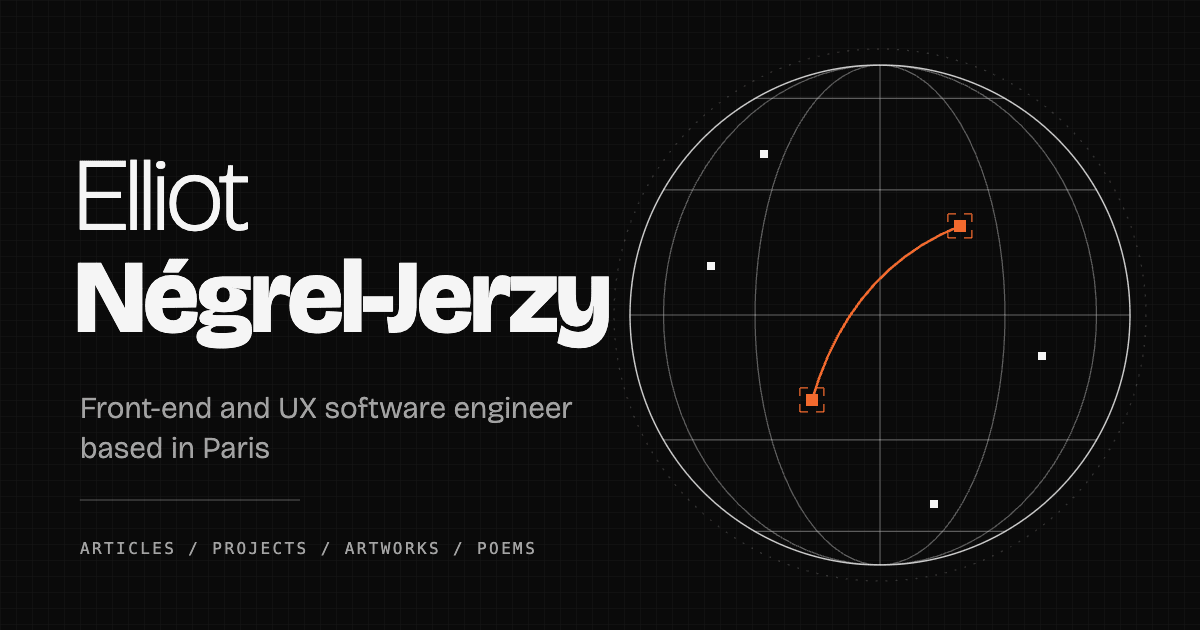
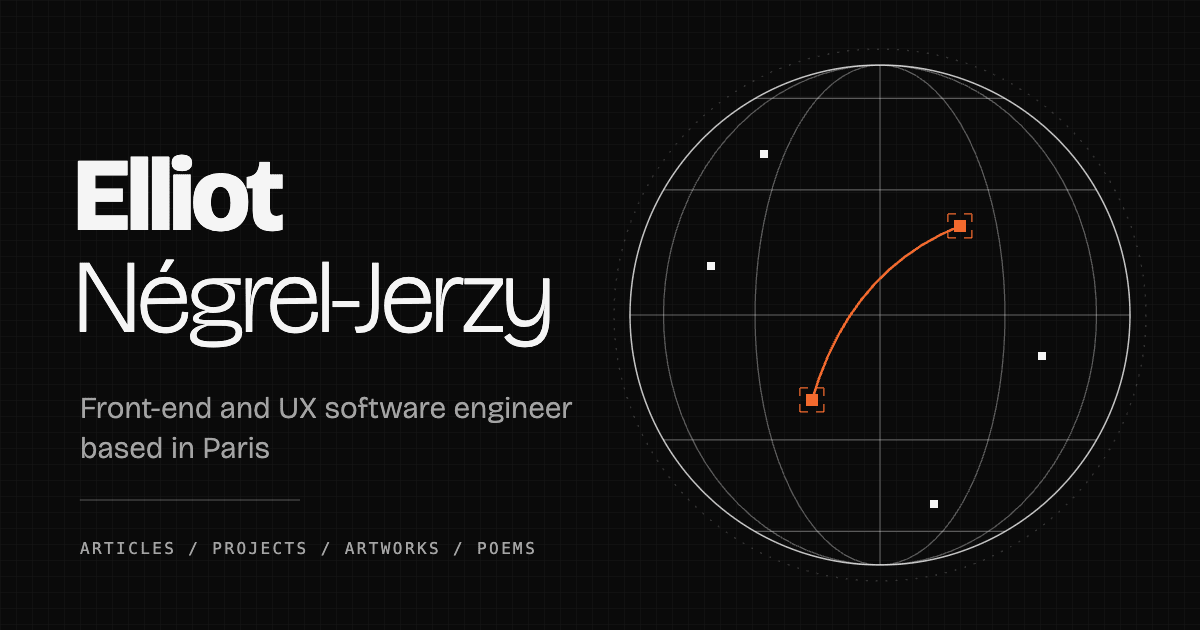
feat(web): the first name is the heavy one and the name takes about 72 % of the width
Weights swapped in the hero, the collapsed line and the share image; the
given name's tracking is opened so the letters do not touch. Docs and
the hero check follow.

Changed region(s): [[0.0617, 0.3921, 0.5242, 0.573], [0.0617, 0.2413, 0.2467, 0.3921]]

diff --git a/apps/web/app/app.css b/apps/web/app/app.css
@@ -938,8 +938,8 @@
     height: var(--icon-large);
   }
 
-  /* The shortcut hint (components/ui/key-hint.tsx): a modifier icon or word, then the key, in mono; the box holds its place before
-     hydration (the platform is only known in the browser). */
+  /* The shortcut hint (components/ui/key-hint.tsx): a modifier icon or word, then the key, in plain mono text (no border, no
+     background); its space is held before hydration (the platform is only known in the browser). */
   .ds-kbd {
     display: inline-flex;
     flex: none;
@@ -953,12 +953,6 @@
     letter-spacing: 0.04em;
     font-variant-numeric: tabular-nums;
     color: inherit;
-  }
-
-  .ds-kbd[data-boxed] {
-    min-height: 1.75rem;
-    padding: 0 0.5rem;
-    border: var(--hairline) solid var(--border-strong);
   }
 
   /* Kind tag: the kind's icon, drawn plain beside its word. */
@@ -2180,19 +2174,20 @@ h1[tabindex="-1"]:focus-visible {
    *   away       a place or an entry is open: nothing of it is shown or exposed.
    * Only opacity and transform change (compositor only); `visibility` follows the fade so hidden links are not tab stops.
    *
-   * Sizes. `--hero-size` is the name's font size. The name is the owner's: "Elliot" at 200 and "Négrel-Jerzy" at 800, -0.055em. On
-   * a wide screen it is one line that fills the width between the gutters (`--hero-fit` em wide at the 200/800 split: the size is the
-   * width over that), never more than a third of the viewport's height (a short window) nor 30 rem. Stacked (under 48 rem) the two
-   * halves are two lines and the longer one, the family name, fills the width. The block rises by the credits line's height (the
+   * Sizes. `--hero-size` is the name's font size. The name is the owner's: "Elliot" at 800 and "Négrel-Jerzy" at 200, -0.055em. On
+   * a wide screen it is one line that takes `--hero-span` of the viewport's width (72 %: deliberately NOT the full width between the
+   * gutters; the size is that share of the width over `--hero-fit`, the name's width in em), never more than a third of the viewport's
+   * height (a short window) nor 30 rem. Stacked (under 48 rem) the two halves are two lines and the longer one, the family name,
+   * fills the width between the gutters. The block rises by the credits line's height (the
    * line is bottom right and sits at 8 to 30 px from the bottom) plus what the "y" hangs below the line box, so no letter is ever over it.
    */
   .landing-hero {
     --hero-gutter: clamp(1rem, 3.9vw, 3.5rem);
-    /* The name's width in em at the 200 / 800 split, with a little slack (6.49 measured from 98 px up: the font's optical size stops
-       narrowing the letters there; scripts/home/hero.mjs checks that it fits); the viewport's width less two gutters over it is the size
-       that fills the row. */
+    /* The name's width in em at the 800 / 200 split (6.6 measured, the given name set at -0.02em; the font's optical size is the same
+       from 98 px up; scripts/home/hero.mjs checks the share it takes) and the share of the viewport's width it takes on a wide screen. */
     --hero-fit: 6.6;
-    --hero-size: min(calc((100vw - 2 * var(--hero-gutter)) / var(--hero-fit)), 33vh, 30rem);
+    --hero-span: 0.72;
+    --hero-size: min(calc(100vw * var(--hero-span) / var(--hero-fit)), 33vh, 30rem);
     /* The credits line's top edge (0.5 rem + its card) and a little air; a phone's dev badge sits higher (below). */
     --hero-clear: 2.25rem;
     --hero-fade: var(--duration-base) var(--ease-standard);
@@ -2208,7 +2203,8 @@ h1[tabindex="-1"]:focus-visible {
   /* Phones: the name stacks, the family name fills the width; the credits line takes the whole bottom edge and the dev-only content badge sits above it. */
   @media (max-width: 47.99rem) {
     .landing-hero {
-      --hero-fit: 5.3;
+      /* The family name (the longer line, 4.57 em at 390 px, 4.7 on the smallest) fills the width between the gutters. */
+      --hero-fit: 4.7;
       --hero-size: min(calc((100vw - 2 * var(--hero-gutter)) / var(--hero-fit)), 24vh);
     }
 
@@ -2301,6 +2297,12 @@ h1[tabindex="-1"]:focus-visible {
     white-space: nowrap;
     text-wrap: nowrap;
     transform-origin: left bottom;
+  }
+
+  /* The given name is the heavy half: at 800 and the name's -0.055em the three l, l, i of "Elliot" touch, so it is set looser (the thin
+     family name keeps the tight tracking: its strokes are light enough). */
+  .hero-given {
+    letter-spacing: -0.02em;
   }
 
   /* A family name with a hyphen never breaks there: it is one word. The hyphen gets air: at 800 and -0.055em it fuses with its neighbours. */
@@ -2446,7 +2448,7 @@ h1[tabindex="-1"]:focus-visible {
      globe is in plain view, and every line saved is room for it). */
   @media (min-width: 48rem) and (max-height: 34rem) {
     .landing-hero {
-      --hero-size: min(calc((100vw - 2 * var(--hero-gutter)) / var(--hero-fit)), 26vh, 30rem);
+      --hero-size: min(calc(100vw * var(--hero-span) / var(--hero-fit)), 26vh, 30rem);
     }
 
     .hero-block {

diff --git a/apps/web/app/components/landing-hero.tsx b/apps/web/app/components/landing-hero.tsx
@@ -17,7 +17,7 @@ const SERVER_SNAPSHOT: HeroSnapshot = { state: "rest", world: true };
 const HINT_GLOBE = "Pick a point on the globe, or start from a list.";
 const HINT_NO_PLACE = "No place is published yet: start from a list.";
 
-/** The family name with its hyphen set apart: at the display weight and the hero's tight tracking the hyphen would fuse with the letters around it. */
+/** The family name with its hyphen set apart: at the hero's tight tracking the hyphen would fuse with the letters around it. */
 function FamilyName() {
   const parts = SITE.familyName.split("-");
   return (
@@ -41,8 +41,8 @@ interface LandingHeroProps {
 }
 
 /**
- * The landing hero, over the globe on the home page (docs/landing.md). All type: the owner's name (the given name at the thin end of the
- * weight axis, the family name at the heavy end), who they are and what they do in the light reading serif, a search line that opens
+ * The landing hero, over the globe on the home page (docs/landing.md). All type: the owner's name (the given name at the heavy end of the
+ * weight axis, the family name at the thin end), who they are and what they do in the light reading serif, a search line that opens
  * the existing palette, and the four lists as hairline rows (which are the home page's section links: the header leaves its own out
  * while the hero is at rest, `lib/hero-rest.ts`). Its container ignores the pointer, so the globe stays draggable beneath it; only the search line and the rows take
  * it. At rest it is the page; after a gesture on the globe it steps back to one small line (and comes back after a moment at the world
@@ -74,7 +74,7 @@ export function LandingHero({ machine, away, empty }: LandingHeroProps) {
     >
       <div className="hero-block">
         <Name className="hero-name type-display-xl">
-          <span className="hero-given type-thin">{SITE.givenName}</span> <span className="hero-family">
+          <span className="hero-given">{SITE.givenName}</span> <span className="hero-family type-thin">
             <FamilyName />
           </span>
         </Name>
@@ -111,7 +111,10 @@ export function LandingHero({ machine, away, empty }: LandingHeroProps) {
       {/* What stays when the hero has stepped back: the name as one small line and, while the way back is real, the hint. Decoration (the h1 is above). */}
       <p aria-hidden="true" className="hero-mini">
         <span className="hero-mini-name">
-          <span className="type-thin">{SITE.givenName}</span> <FamilyName />
+          {SITE.givenName}{" "}
+          <span className="type-thin">
+            <FamilyName />
+          </span>
         </span>
         <span className="hero-mini-hint">Drag to explore. Back to start after a moment.</span>
       </p>

diff --git a/apps/web/app/components/landing-hero.test.ts b/apps/web/app/components/landing-hero.test.ts
@@ -26,11 +26,11 @@ describe("LandingHero", () => {
     machine.stop();
   });
 
-  it("is the page's h1: the owner's name, the given name at the thin end of the weight axis and the family name at the heavy end", async () => {
+  it("is the page's h1: the owner's name, the given name at the heavy end of the weight axis (800) and the family name at the thin end (200)", async () => {
     const html = await render();
     expect(html.match(/<h1[ >]/g)).toHaveLength(1);
     expect(html).toMatch(
-      /<h1 class="hero-name type-display-xl"><span class="hero-given type-thin">Elliot<\/span> <span class="hero-family"><span>Négrel<\/span><span><span class="hero-hyphen">-<\/span>Jerzy<\/span><\/span><\/h1>/,
+      /<h1 class="hero-name type-display-xl"><span class="hero-given">Elliot<\/span> <span class="hero-family type-thin"><span>Négrel<\/span><span><span class="hero-hyphen">-<\/span>Jerzy<\/span><\/span><\/h1>/,
     );
     const heading = /<h1[^>]*>(.*?)<\/h1>/.exec(html)?.[1]?.replace(/<[^>]+>/g, "");
     expect(heading).toBe(SITE_NAME);
@@ -101,6 +101,8 @@ describe("LandingHero", () => {
     const html = await render();
     const mini = html.slice(html.indexOf('<p aria-hidden="true" class="hero-mini">'));
     expect(mini).toContain("Drag to explore. Back to start after a moment.");
+    // the same weights as the name: the given name heavy (the line's own 800), the family name at the thin end
+    expect(mini).toMatch(/<span class="hero-mini-name">Elliot <span class="type-thin"><span>Négrel<\/span>/);
     expect(html.match(/<h[1-6][ >]/g)).toHaveLength(1);
   });
 });
@@ -145,6 +147,15 @@ describe("the hero's CSS (app.css, 'Landing hero')", () => {
     expect(rule(".hero-intro")).toContain("font-family: var(--font-reading)");
     expect(rule(".hero-row")).toContain("font-family: var(--font-display)");
     expect(rule(".hero-search")).toContain("font-family: var(--font-meta)");
+  });
+
+  it("sets the name's heavy half on the given name and does not span the width: a share of it (--hero-span), the phone's family name fills it", () => {
+    expect(rule(".hero-name")).not.toContain("type-thin");
+    expect(css).toMatch(/--hero-span: 0\.7[0-5];/);
+    expect(css).toMatch(/--hero-size: min\(calc\(100vw \* var\(--hero-span\) \/ var\(--hero-fit\)\), 33vh, 30rem\);/);
+    // the phone's rule is the gutter-to-gutter fill
+    expect(css).toMatch(/max-width: 47\.99rem\) \{\s*\.landing-hero \{[^}]*--hero-size: min\(calc\(\(100vw - 2 \* var\(--hero-gutter\)\) \/ var\(--hero-fit\)\), 24vh\);/);
+    expect(rule(".hero-mini-name")).toContain("font-weight: var(--weight-heavy)");
   });
 
   it("keeps the header's accent state at the text-safe token (these are under 24 px)", () => {

diff --git a/apps/web/app/lib/site.ts b/apps/web/app/lib/site.ts
@@ -10,7 +10,7 @@
 export const SITE = {
   /** The owner's name: the site's name, the home hero's headline, the title template's suffix. */
   name: "Elliot Négrel-Jerzy",
-  /** The name's two halves: the hero sets the first at the thin end of the weight axis and the second at the heavy end. */
+  /** The name's two halves: the hero sets the first at the heavy end of the weight axis (800) and the second at the thin end (200). */
   givenName: "Elliot",
   familyName: "Négrel-Jerzy",
   /** For tight spots (the home-screen label under an icon, 12 characters or fewer). */

diff --git a/apps/web/app/routes/dev-design.tsx b/apps/web/app/routes/dev-design.tsx
@@ -273,9 +273,8 @@ function Icons() {
           ))}
         </ul>
       </Spec>
-      <Spec caption="The shortcut hint (the command key on a Mac, Ctrl elsewhere), boxed and plain">
+      <Spec caption="The shortcut hint (the command key on a Mac, Ctrl elsewhere): plain muted text, never a box">
         <div className="flex flex-wrap items-center gap-6 text-muted-foreground">
-          <KeyHint boxed />
           <KeyHint />
         </div>
       </Spec>

diff --git a/docs/landing.md b/docs/landing.md
@@ -8,7 +8,7 @@ Code: `app/components/landing-hero.tsx` (the markup), `app/lib/hero-machine.ts` 
 
 ```
 <div data-slot="landing-hero" data-hero="rest | collapsed | away" data-world="true | false">
-  h1.hero-name        "Elliot" (.hero-given .type-thin, 200) + "Négrel-Jerzy" (.hero-family, 800), Bricolage, .type-display-xl; the page's h1
+  h1.hero-name        "Elliot" (.hero-given, 800) + "Négrel-Jerzy" (.hero-family .type-thin, 200), Bricolage, .type-display-xl; the page's h1
   .hero-lead
     p.hero-intro      who and what: "Front-end and UX software engineer based in Paris. Data visualisation, geospatial and cartography interfaces, design systems, computer graphics."
     p.hero-hint       how: "Pick a point on the globe, or start from a list." (muted, a step smaller; gone on a wide, short window)
@@ -18,7 +18,7 @@ Code: `app/components/landing-hero.tsx` (the markup), `app/lib/hero-machine.ts` 
   p.hero-mini         aria-hidden: the small name and "Drag to explore. Back to start after a moment."
 ```
 
-Layout (wide): intro, hint and search left (470 px), the four rows right (360 px), the name across the whole width under them: ONE line from 48 rem, sized to fill the width between the gutters (`--hero-size` = width less two gutters over `--hero-fit` 6.6 em, the name's measured width at 200 / 800 and -0.055em, which is 6.49 em from about 98 px up, so the name ends a little inside the right gutter: 201 px at 1440), never over a third of the height nor 30 rem. The hyphen of the family name has its own span (`.hero-hyphen`, 0.045 em of margin): at 800 and that tracking it fused with the "l" and the "J". Gutters 56 px (`clamp(1rem, 3.9vw, 3.5rem)`). Under 48 rem it stacks in two lines: the given name over the family name (`--hero-fit` 5.3, the family name fills the width: 67 px at 390), then intro, hint, search, rows. Wide and short (a phone on its side, under 34 rem tall): the rows in two columns, the name capped at 26 vh and the hint dropped (the globe is in plain view; the line saved is room for it). DOM order is reading order (name, intro, search, rows); the grid places the name last on a wide screen.
+Layout (wide): intro, hint and search left (470 px), the four rows right (360 px), the name under them: ONE line from 48 rem, **deliberately not the full width** (owner, round 2: "clearly narrower"): it takes `--hero-span` 0.72 of the viewport (`--hero-size` = 100vw x 0.72 / `--hero-fit` 6.6 em, the name's measured width at 800 / 200: 157 px at 1440, which is 1037 px, 72 %; 737 px at 1024; 565 px, 74 %, at 768 where the optical size is a little wider), never over a third of the height nor 30 rem. Weights: the given name is the heavy half (800, set at -0.02 em: at the name's -0.055 em the three l, l, i of "Elliot" touched), the family name the thin half (200, -0.055 em). The hyphen of the family name has its own span (`.hero-hyphen`, 0.045 em of margin). Gutters 56 px (`clamp(1rem, 3.9vw, 3.5rem)`). Under 48 rem it stacks in two lines: the given name over the family name, whose width is what fills the row there (`--hero-fit` 4.7, gutter to gutter: 76 px at 390), then intro, hint, search, rows. Wide and short (a phone on its side, under 34 rem tall): the rows in two columns, the name capped at 26 vh and the hint dropped (the globe is in plain view; the line saved is room for it). DOM order is reading order (name, intro, search, rows); the grid places the name last on a wide screen.
 
 The block is bottom-anchored and rises by the credits line's height plus what the "y" hangs under the line box (`padding-bottom: clear + 0.15 * name size`), so no letter is ever over the credits line (bottom right, 8 to 30 px from the bottom) or, in development, the content badge. The hero is `pointer-events: none`; only the search line and the rows take the pointer, so the globe stays draggable and zoomable beneath all the rest. A page-colour fade (`.landing-hero::before`, no blur) sits behind the thin type.
 
@@ -27,7 +27,7 @@ The block is bottom-anchored and rises by the credits line's height plus what th
 | State | When | What shows |
 | --- | --- | --- |
 | `rest` | load; or idle at the world view after a gesture | the whole hero |
-| `collapsed` | after a gesture on the globe; or whenever the view is not the world view (zoomed in, a place open) | the small line bottom-left (left 40 px, bottom 32 px: the name in Bricolage 30 / 800 with "Elliot" at 200, and the hint). The h1 stays in the accessibility tree at opacity 0; the search line and the rows are `visibility: hidden` (not tab stops). The hint is shown only while the way back is real (`data-world="true"`) |
+| `collapsed` | after a gesture on the globe; or whenever the view is not the world view (zoomed in, a place open) | the small line bottom-left (left 40 px, bottom 32 px: the name in Bricolage 30: "Elliot" at 800 and "Négrel-Jerzy" at 200, as in the hero, and the hint). The h1 stays in the accessibility tree at opacity 0; the search line and the rows are `visibility: hidden` (not tab stops). The hint is shown only while the way back is real (`data-world="true"`) |
 | `away` | a place or an entry is open | nothing is shown or exposed (instant); the name renders as a `p`, so the panel's title is the only h1 |
 
 Transitions: opacity and transform only (visibility follows the fade), `--duration-base` (220 ms) with `--ease-standard`; `prefers-reduced-motion`: none (instant). No JS animation loop; a state change costs one React re-render of the hero, and only on a gesture start, the world view being left or reached, or the idle timer.
@@ -44,7 +44,7 @@ The machine (`createHeroMachine`): `rest` goes to `collapsed` on `interact()` or
 
 Restyled with the hero (the board's header): `Globe` (the home page; accessible name "Globe, Elliot Négrel-Jerzy home"), Projects, Articles, Artworks, Poems in mono capitals (`.nav-link`: 12 px, tracking 0.14em and 44 px between items from a 44 rem wide row, shrinking by container width down to 11 px / 6 px on a 320 px phone), the current one in the foreground and underlined, the rest muted, the pointer or keyboard turning an item to `--signal-text`. Where the icon trigger is hidden (row under 28 rem: a phone) the same control is one word, "Search" (`data-slot="search-trigger-compact"`, 44 px target).
 
-**On the home page the header carries no section links while the hero is at rest** (owner, 2026-10-13: the hero's four rows are the sections; two sets one above the other was redundancy). It is the search trigger alone (icon and key hint, or the word on a phone), centred as before. What keeps the page accessible: the skip links are unchanged; the header's search trigger stays first in the tab order, then the hero's search line and its four rows; the hero's list is a `nav` with `aria-label="Primary"` (the only primary navigation in the accessibility tree), and the header's row, which stays the same element so that the open palette keeps its state, becomes `role="none"` and loses its label. **The sections come back whenever the hero is not at rest**: collapsed after a gesture, or zoomed in (its rows are `visibility: hidden` then, and zoomed in it never returns on its own, so without this the visitor would have no way to the lists but the search); they go again when the hero returns. Mechanism: `LandingHero` publishes `state === "rest"` to `lib/hero-rest.ts` (a tiny external store) and `Navbar` reads it, because the header is a sibling of the shell in the root layout. The server and the first client render say "at rest", like the hero's server markup, so nothing differs at hydration. Every other route, including a place or an entry opened from the globe, has the header unchanged.
+**On the home page there is no header at all while the hero is at rest** (owner, 2026-10-13, twice: first "no section tabs, the hero's rows are the sections", then "no top bar element at all: the hero's own search line has the search and the key hint"). `Navbar` renders no `<header>`: no bar, no tabs, no search trigger, no fade. What keeps the page accessible: the skip links are unchanged; the first controls in the tab order are the hero's search line and its four rows; the hero's list is a `nav` with `aria-label="Primary"` (the only Primary navigation in the accessibility tree); Cmd/Ctrl-K opens the palette as everywhere (the palette is mounted by `Navbar` beside the header, not inside it, so it also stays open when the header comes or goes). **The header returns whenever the hero is not at rest** (tabs and search, with the plain key hint): collapsed after a gesture, or zoomed in (the rows are `visibility: hidden` then, and zoomed in the hero never returns on its own, so without this the visitor would have no way to the lists but the search); it goes again when the hero returns. Mechanism: `LandingHero` publishes `state === "rest"` to `lib/hero-rest.ts` (a tiny external store) and `Navbar` reads it, because the header is a sibling of the shell in the root layout. The server and the first client render say "at rest", like the hero's server markup, so nothing differs at hydration. Every other route, including a place or an entry opened from the globe, has the header unchanged.
 
 ## Empty archive
 

diff --git a/docs/design-system.md b/docs/design-system.md
@@ -45,11 +45,11 @@ Each kind has an **icon** from the icon set (article: a page of text; project: a
 
 ### Type
 
-The direction (2026-10-12): the pixel globe is the only illustrative element; everything else is type. A very heavy display weight against a very thin one (the owner's name: "Elliot" 200, "Négrel-Jerzy" 800), a reading serif for long text, mono for metadata, hairline rules, one accent. Three self-hosted families (`design-tokens.md`, "Typography": files, fallbacks, weights, the scale with its numbers) over the unchanged system stacks. Each role is a class in `app.css` (`.type-*`); a component composes them and names no family itself.
+The direction (2026-10-12): the pixel globe is the only illustrative element; everything else is type. A very heavy display weight against a very thin one (the owner's name: "Elliot" 800, "Négrel-Jerzy" 200), a reading serif for long text, mono for metadata, hairline rules, one accent. Three self-hosted families (`design-tokens.md`, "Typography": files, fallbacks, weights, the scale with its numbers) over the unchanged system stacks. Each role is a class in `app.css` (`.type-*`); a component composes them and names no family itself.
 
 | Role | Face | Where |
 | --- | --- | --- |
-| `display-xl` (`.type-display-xl`) | Bricolage Grotesque 800, the given name at 200 (`.type-thin`), tight (0.88 leading, -0.045em), 56 to 158 px | the name on the home page (the hero sets its own size: one line across the width, stacked on a phone) |
+| `display-xl` (`.type-display-xl`) | Bricolage Grotesque 800, the family name at 200 (`.type-thin`; the given name is the heavy half), tight (0.88 leading, -0.045em), 56 to 158 px | the name on the home page (the hero sets its own size: one line taking about 72 % of the width, stacked on a phone) |
 | `display-lg` | Bricolage 800, 36 to 72 px, 0.98 leading | a list's year numerals (`.type-thin`), specimens; an entry's headline is `.entry-title` (Newsreader 700, see "Entry pages") |
 | `display-md` | Bricolage 700, 26 to 36 px | a card's title, a section of a list |
 | `standfirst` | Newsreader italic 300, 24 to 30 px, balanced | the line under a headline |
@@ -120,7 +120,7 @@ All in `app/components/ui/`, importable from `~/components/ui` (barrel) or by fi
 | `EntryCard` | cover (authored image or generated, 16:9, one hairline) + optional kind (`showKind`, mixed lists only) + title + three-line summary + status + date and places as two plain lines + the first three tags as muted text | one link (the title), stretched over the card with `::after`; hover underlines the title, focus-within draws a ring; `orientation="horizontal"` puts the cover beside the text inside an `@container` of 28 rem or more (the place panel), `priority` loads the image at once (the first cards of a list) |
 | `CopyButton` | ghost button that copies a string (or a function of the window) and confirms in place: its word turns to `Copied` (or `Not copied`) for 2 s, a polite status says it; no toast | drawn only once hydrated; clipboard API with an `execCommand` fallback; `glyph`, `label` (the accessible name), `announcement` |
 | `Icon` | one icon of the set by name (5 kinds, close, expand, collapse, arrows, enter, command, copy, link, check, search, hash), from lucide-react | `size` inline (1.1 em), control (1.25 rem, default), large (1.5 rem); decorative (`aria-hidden`); "Icons" below |
-| `KeyHint` | the shortcut's hint in a `kbd`: the command icon (Mac) or "Ctrl", then K, mono 13 px; empty box of its final width until hydrated | `boxed` (hairline key cap: the header trigger) or plain (the hero's search line) |
+| `KeyHint` | the shortcut's hint in a `kbd`: the command icon (Mac) or "Ctrl", then K, mono 13 px, muted, **plain text: no border, background or outline anywhere**; empty space of its final width until hydrated | none: the same in the header and on the hero's search line |
 
 ### Generative cover art
 
@@ -199,9 +199,8 @@ the cards h3). A place without entries shows nothing for them (no section, no em
 - **Empty states.** Home with no place: the globe stays and `ArchiveEmpty` (a small plate under one ink rule, "Nothing on the globe yet" in the display face, one
   line in the reading face and the four lists with their counts in mono) sits bottom left; a list with no entries is one muted line ("Nothing here yet."); a place
   with none shows no entries section.
-- **Search.** A modal dialog on the surface Frame: a combobox input with the search icon, an `Esc` key cap, group headings in mono, rows of kind
-  icon (control size, one size for every kind) + title (display face, 700) + date or region, the highlighted one on the hover grey with a 2 px signal tick, a footer of key hints
-  (icons for the arrows and Enter) and the result count. The trigger is a 44 px button with the search icon and, from `xl` of header width, the `KeyHint` (command icon + K, or Ctrl K).
+- **Search.** A modal dialog on the surface Frame: a combobox input with the search icon and a plain close icon (no box), group headings in mono, rows of kind
+  icon (control size, one size for every kind) + title (display face, 700) + date or region, the highlighted one on the hover grey with a 2 px signal tick, a footer of one quiet line of key hints in plain muted text, with no box (icons for the arrows and Enter, the word "Esc" for the key, each followed by its verb: "Esc close") and the result count. The trigger is a 44 px button with the search icon and, from `xl` of header width, the `KeyHint` (command icon + K, or Ctrl K).
 - **Print.** Ink on white, no globe, navigation, controls, contents, related cards or neighbours; external link addresses are written out.
 
 ## Icons
@@ -230,8 +229,11 @@ hover and its scheme. An icon is decorative (`aria-hidden`); the control or the 
 `arrow-up-left`, `enter`, `command`, `check`, `copy`, `link`, `hash`, `search`. Shown live in `/dev/design`, section 14.
 
 **The shortcut hint** (`KeyHint`): the command key is the library's `Command` icon (inline size) followed by "K"; elsewhere the word "Ctrl"
-then "K", in mono 13 px, in a hairline key cap in the header and plain on the hero's search line. It is decoration (`aria-keyshortcuts`
-names the shortcut); its box has its final width on the server so that nothing moves when the platform is known.
+then "K", in mono 13 px, as plain muted text everywhere it appears (the header, the hero's search line; the palette's footer writes "Esc" the
+same way). **A key is never drawn as a box** (owner, 2026-10-13: an outlined "Esc" nested in an outlined row looked poorly nested): no border,
+no background, no outline, no padding on `.ds-kbd`; `icon.test.ts` fails on a border or a background on a key hint, and `scripts/home/hero.mjs`
+reads the computed style of the hero's, the header's and the palette's. It is decoration (`aria-keyshortcuts` names the shortcut); its space
+has its final width on the server so that nothing moves when the platform is known.
 
 ## Brand and header
 
@@ -252,9 +254,9 @@ mark to the project's first name); a disc with one squared corner (a leaf shape,
 
 **The header** (`components/navbar.tsx`): one centred row of text and no logo (owner: the icon in the corner went). In order: "Globe"
 (the way home, in mono capitals like the rest: the site's name is the home hero's headline, not the header's), Projects, Articles, Artworks, Poems (muted; the
-current one in the foreground and underlined, `aria-current="page"`), the search trigger. **On the home page, while the landing hero shows
-its four rows, the header is the search trigger alone** (the rows are the sections: docs/landing.md); the sections are back whenever the
-hero has stepped back, and on every other route. Centred over the viewport; while the place
+current one in the foreground and underlined, `aria-current="page"`), the search trigger. **On the home page, while the landing hero is at
+rest, there is no header at all** (its four rows are the sections and its search line is the search: docs/landing.md); the header is back,
+tabs and search, whenever the hero has stepped back, and on every other route. Centred over the viewport; while the place
 or entry panel is open beside the globe it is centred over the map (the left half), so it never meets the panel's Close and expand
 controls, and it glides with the panel. Its width decides what it shows (container query): the name and the four sections always,
 the search trigger from 28 rem, its key hint from 36 rem. 44 px targets. Over content that scrolls (lists, 404, errors) it has the

diff --git a/docs/design-tokens.md b/docs/design-tokens.md
@@ -99,7 +99,7 @@ System stacks (unchanged):
 - Sans: `ui-sans-serif, system-ui, -apple-system, "Segoe UI", Roboto, "Helvetica Neue", Arial, sans-serif`
 - Mono (labels, small caps): `ui-monospace, "SF Mono", SFMono-Regular, Menlo, Consolas, "Liberation Mono", monospace`
 
-Weights (`--weight-*`): `thin` 200 and `heavy` 800 are the display pair (the given name 200 against the family name 800: "Elliot" / "Négrel-Jerzy"); `light` 300 (standfirst, pull quote, third-level heading), `reading` 400, `medium` 500, `semibold` 600, `bold` 700. Tailwind's own `font-extralight` (200) and `font-extrabold` (800) are the same numbers.
+Weights (`--weight-*`): `thin` 200 and `heavy` 800 are the display pair (the given name 800 against the family name 200: "Elliot" / "Négrel-Jerzy"); `light` 300 (standfirst, pull quote, third-level heading), `reading` 400, `medium` 500, `semibold` 600, `bold` 700. Tailwind's own `font-extralight` (200) and `font-extrabold` (800) are the same numbers.
 
 Roles. A class sets a whole role; `text-<role>` plus `font-display | font-reading | font-meta` does the same in utilities (the `--text-<role>--line-height`, `--letter-spacing` and `--font-weight` are Tailwind's theme keys, so `text-display-xl` carries them).
 
@@ -112,7 +112,7 @@ Roles. A class sets a whole role; `text-<role>` plus `font-display | font-readin
 | `reading` | `.type-reading` | `clamp(1.125rem, 1.07rem + 0.25vw, 1.25rem)`: 18 to 20 px | 1.65 | 0 | 400 | `pretty`, proportional figures; column `.type-measure` |
 | `meta` | `.type-meta` | 12 px, mono | 16 px | 0.1em | 500 | uppercase, tabular figures, ligatures off |
 
-Modifiers: `.type-thin` / `.type-heavy` put a run of a display heading at either end of the weight axis (`<span class="type-thin">Elliot</span> Négrel-Jerzy`). `.type-link` underlines in the accent (`.ds-prose` links do the same). `.drop-cap` sets the first letter of a paragraph as a float 5.33 em tall (4.2 em in a column under 40 rem), Newsreader 700 in the ink, line-height 0.8, padding 0.07 em 0.13 em 0 0 (the "Article on paper" board: 112 px against a 21 px body); a float and not `initial-letter`, because the board's letter sits on the third line and `initial-letter` sinks differently in each engine. `.type-pullquote` is the reading face in 300 italic, `clamp(1.5rem, 0.9rem + 1.9cqi, 2.5rem)` (40 px at 1328 px) / 1.15, -0.01em, between two 1 px rules of the ink with 18 px padding; `.type-rule` and `.ds-prose hr` a 1 px rule in `--border-strong`. Entry pages add (app.css, reading section, documented in design-system.md, "Entry pages"): `.entry-title` (the headline: Newsreader 700, `--entry-title`, 0.92, -0.03em, 8.95 em wide at most; `data-poem` makes it 200 italic at `--poem-title`, 0.95), `.entry-rule` (the double rule: 3 px, 3 px gap, 1 px), `.entry-dateline`, `.entry-margin`, `.entry-figure`, `.ds-caption` (mono 12 px / 1.6, muted: a figure's caption).
+Modifiers: `.type-thin` / `.type-heavy` put a run of a display heading at either end of the weight axis (`Elliot <span class="type-thin">Négrel-Jerzy</span>`). `.type-link` underlines in the accent (`.ds-prose` links do the same). `.drop-cap` sets the first letter of a paragraph as a float 5.33 em tall (4.2 em in a column under 40 rem), Newsreader 700 in the ink, line-height 0.8, padding 0.07 em 0.13 em 0 0 (the "Article on paper" board: 112 px against a 21 px body); a float and not `initial-letter`, because the board's letter sits on the third line and `initial-letter` sinks differently in each engine. `.type-pullquote` is the reading face in 300 italic, `clamp(1.5rem, 0.9rem + 1.9cqi, 2.5rem)` (40 px at 1328 px) / 1.15, -0.01em, between two 1 px rules of the ink with 18 px padding; `.type-rule` and `.ds-prose hr` a 1 px rule in `--border-strong`. Entry pages add (app.css, reading section, documented in design-system.md, "Entry pages"): `.entry-title` (the headline: Newsreader 700, `--entry-title`, 0.92, -0.03em, 8.95 em wide at most; `data-poem` makes it 200 italic at `--poem-title`, 0.95), `.entry-rule` (the double rule: 3 px, 3 px gap, 1 px), `.entry-dateline`, `.entry-margin`, `.entry-figure`, `.ds-caption` (mono 12 px / 1.6, muted: a figure's caption).
 
 Reading measure: `--measure-reading` is 28.5 em of the reading size, 570 px at 20 px: 66 characters of running text (measured in Chrome, 1440 and 390 px wide). It is em and not `ch` on purpose: the "0" of Newsreader is 0.5 em wide against a 0.43 em average letter, so 65 `ch` would be 75 characters. Figures in Newsreader are lining: the subset ships no old-style figures (`onum` is absent from the file), so `font-variant-numeric` only asks for proportional ones.
 

diff --git a/docs/web-architecture.md b/docs/web-architecture.md
@@ -202,12 +202,13 @@ Not verified: how Vercel merges the `vercel.json` headers with the ones our serv
   not in the header for now). One row of text, centred at the top of the viewport, in reading and focus order: the site's name
   "Globe" (a plain text link home, accessible name "Globe, Elliot Négrel-Jerzy home"; the site's name is the home hero's headline and the
   title template's suffix, not the row's), Projects, Articles, Artworks, Poems (`aria-current="page"` on the active one, underlined, via
-  `NavLink`), the search trigger. **On the home page, while the landing hero is at rest, the row is the search trigger alone**: the hero's
-  four rows are the sections (docs/landing.md), the row's `nav` element stays (the palette inside it keeps its state) with
-  `role="none"` and no label, and the hero's list is the page's one "Primary" navigation. The hero publishes its state
-  (`lib/hero-rest.ts`, an external store: the header is a sibling of the shell, not a child) and the sections come back whenever the rows
-  are hidden (the hero collapsed after a gesture, a zoomed-in view), so the visitor is never left without a way to the lists. Every other
-  route has the row above, unchanged. The `<header>` is `pointer-events-none`; only the links take the pointer. 44 px targets (links 44 px tall, at least 52 px
+  `NavLink`), the search trigger. **On the home page, while the landing hero is at rest, there is no `<header>` at all**: the hero's
+  four rows are the sections and its search line is the search with its key hint (docs/landing.md), and the hero's list is the page's one
+  "Primary" navigation. `SearchPalette` (the dialog and Cmd/Ctrl-K) is mounted by `Navbar` next to the header, not in it, so the shortcut and
+  an open palette survive the header's absence. The hero publishes its state (`lib/hero-rest.ts`, an external store: the header is a
+  sibling of the shell, not a child) and the header comes back, tabs and search with a plain-text key hint, whenever the rows are hidden (the
+  hero collapsed after a gesture, a zoomed-in view), so the visitor is never left without a way to the lists. Every other route has the row
+  above, unchanged. The `<header>` is `pointer-events-none`; only the links take the pointer. 44 px targets (links 44 px tall, at least 52 px
   wide; the search trigger 44 x 44).
 - **Where the row is centred.** Over the whole viewport (home, lists, 404, the full-screen entry view); **over the map** while the place
   or entry panel is open beside the globe (desktop, `md` and up): the header's right edge goes to 50 % (`md:right-1/2`, decided in
